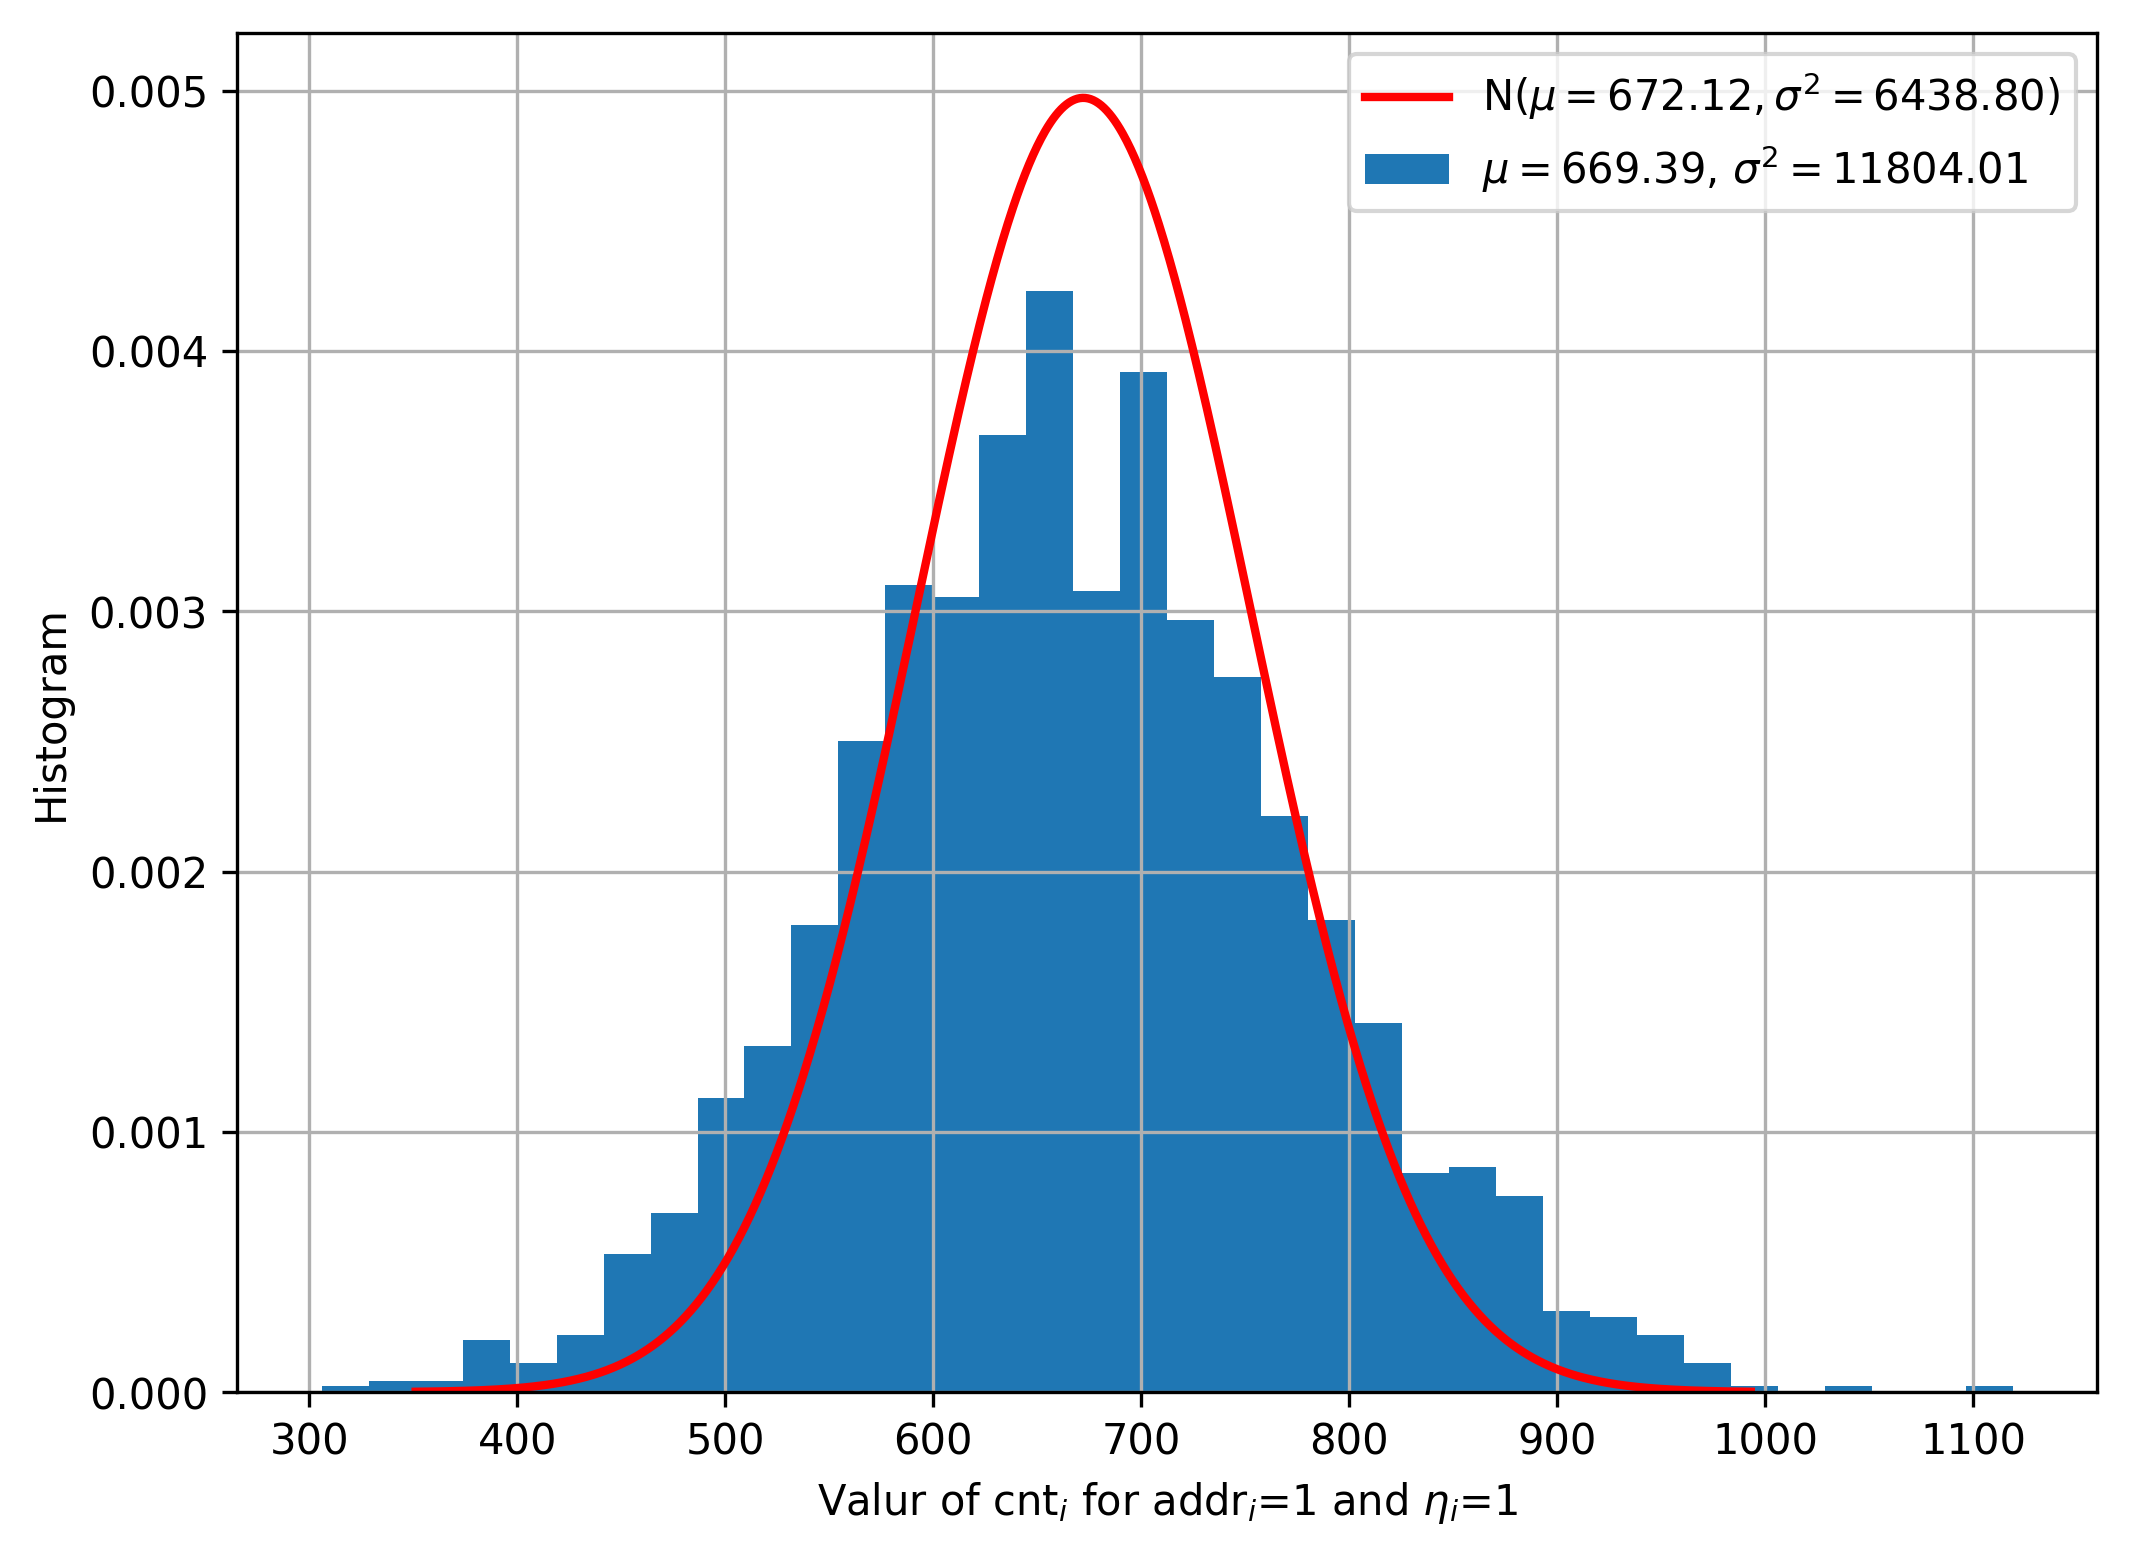
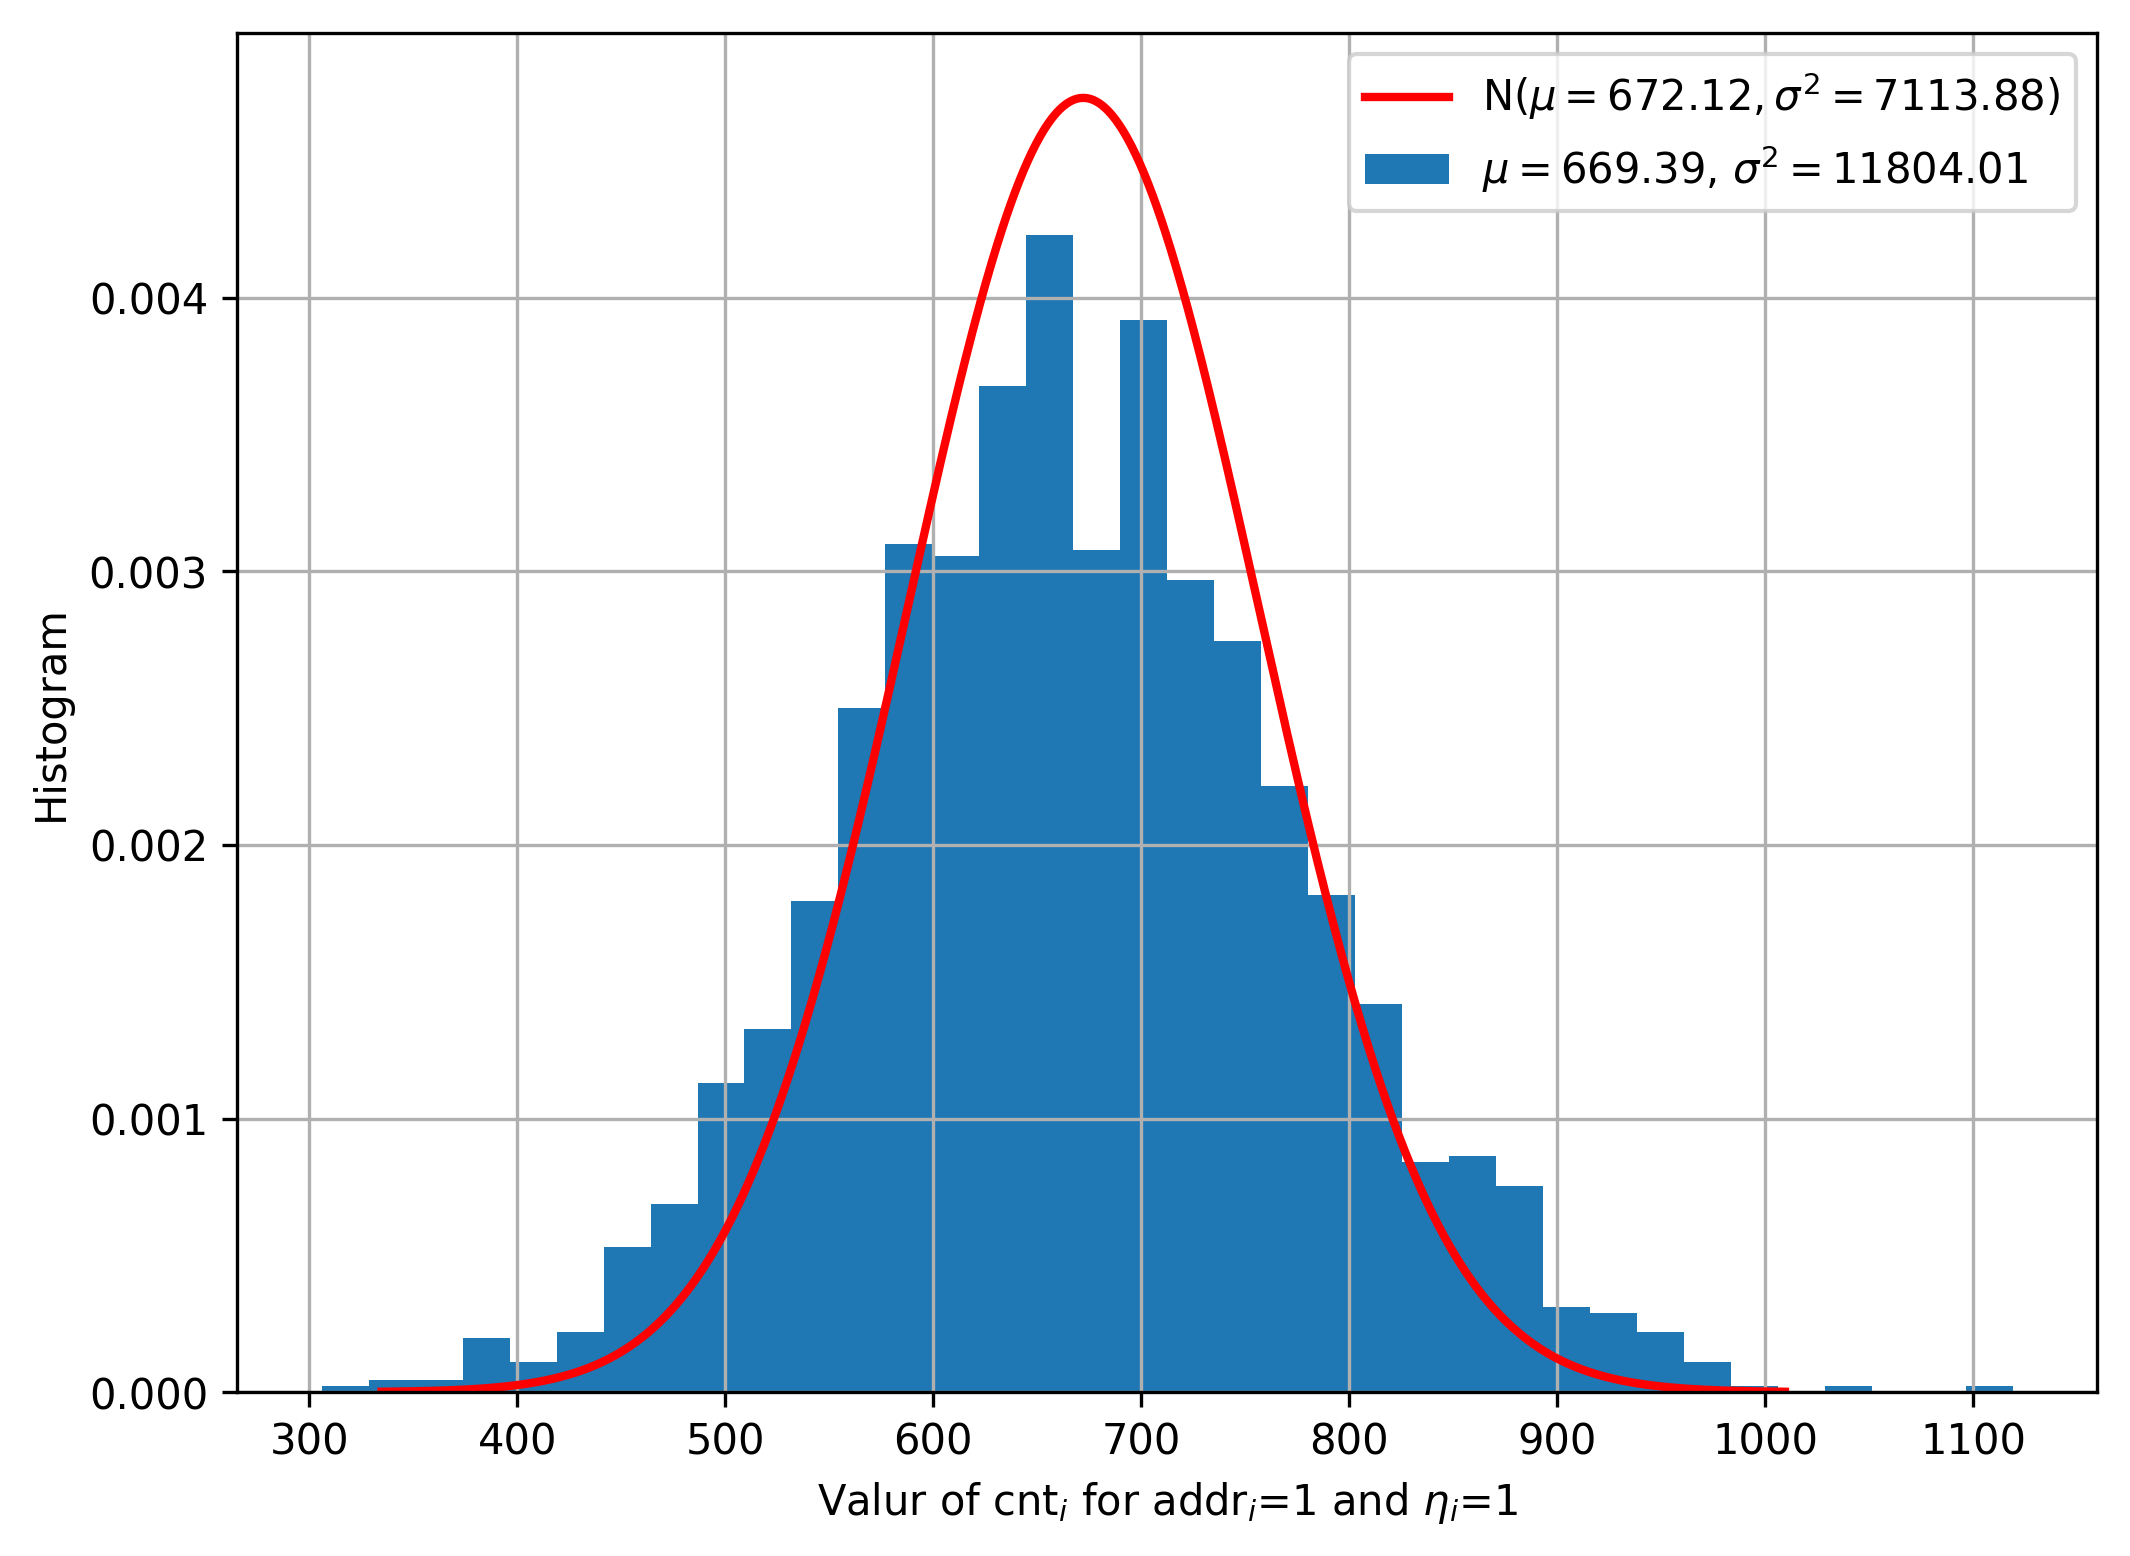
SDM Answer to Kanerva.

diff --git a/kanerva-answer.tex b/kanerva-answer.tex
@@ -186,7 +186,7 @@ For ``random written at x'', $p=0.5$ implies $\mu_\text{cnt} = 0$, which implies
 
 However, for ``x written at x'', $p=0.5529$ and the probabilities depend on $s$. For $s=10,000$, they are equal to 0.6354. For $s=20,000$, they are equal to 0.6867. For $s=30,000$, they are equal to 0.7232. The more random bitstrings are written into the memory, the more the hard locations point to themselves.
 
-See Figure \ref{fig:sdm-corr-prob} and notice that I still have to figure out why the mean is correct, but the standard deviation is not. As each of the $n$ counters of a hard location may be equal or not with the same probability, I assumed it would follow a Binomial distribution (and it worked for ``random at x'').
+See Figure \ref{fig:sdm-corr-prob} and notice that I still have to figure out why the mean is correct, but the standard deviation is not. Let $D$ be the number of counters aligned with $\text{addr}_i$. The standard deviation was calculated using the fact that $[D|\theta] \sim \text{Binomial}(1000, P(\text{cnt}_i > 0 | \text{addr}_i=1, \theta))$.
 
 \begin{figure}[h!]
   \centering
@@ -207,20 +207,20 @@ Now that we know the distribution of $\text{cnt}_i | \text{addr}_i$, we may go t
 \text{acc}_i = \sum_{k=1}^{h} \text{cnt}_k
 \end{align}
 
-Let $\eta$ be the reading address and $\eta_i$ the $i$th bit of it. Then, let's split the $h$ activated hard locations into two groups: (i) the ones with the same bit as $\eta_i$ with $ph$ hard locations, and (ii) the ones with the opposite bit as $\eta_i$ with $(1-p)h$ hard locations.
+Let $\eta$ be the reading address and $\eta_i$ the $i$th bit of it. Then, let's split the $h$ activated hard locations into two groups: (i) the ones with the same bit as $\eta_i$ with $Z$ hard locations, and (ii) the ones with the opposite bit as $\eta_i$ with $h-Z$ hard locations.
 
 \begin{align}
-\left[ \text{acc}_i|\eta_i \right] &= \sum_{k=1}^{ph} \left[ \text{cnt}_k | \text{addr}_k=\eta_i \right] + \sum_{k=1}^{(1-p)h} \left[ \text{cnt}_k | \text{addr}_k \ne \eta_i \right]
+\left[ \text{acc}_i|\eta_i \right] &= \sum_{k=1}^{Z} \left[ \text{cnt}_k | \text{addr}_k=\eta_i \right] + \sum_{k=1}^{h-Z} \left[ \text{cnt}_k | \text{addr}_k \ne \eta_i \right]
 \end{align}
 
 Each sum is a sum of normally distributed random variables, so
 
 \begin{align}
-\sum_{k=1}^{ph} \left[ \text{cnt}_k | \text{addr}_k=\eta_1 \right] &\sim \mathcal{N}(\mu_3 = \mu_2 ph, \sigma_3^2 = \sigma_2^2 ph + \mu_2^2 h p(1-p)) \label{eqn:sdm-eta1-addr1} \\
-\sum_{k=1}^{(1-p)h} \left[ \text{cnt}_k | \text{addr}_k \ne \eta_1 \right] &\sim \mathcal{N}(\mu_3 = -\mu_2 (1-p)h, \sigma_3^2 = \sigma_2^2 (1-p)h + \mu_2^2 h p (1-p)) \label{eqn:sdm-eta1-addr0}
+\sum_{k=1}^{Z} \left[ \text{cnt}_k | \text{addr}_k=\eta_1 \right] &\sim \mathcal{N}(\mu = \mu_\text{cnt} \mu_Z, \sigma^2 = \sigma_\text{cnt}^2 \mu_Z + \mu_\text{cnt}^2 \sigma^2_Z) \label{eqn:sdm-eta1-addr1} \\
+\sum_{k=1}^{h-Z} \left[ \text{cnt}_k | \text{addr}_k \ne \eta_1 \right] &\sim \mathcal{N}(\mu = -\mu_\text{cnt} (1-p) \mu_h, \sigma^2 = \sigma^2_\text{cnt} (1-p) \mu_h + \mu_\text{cnt}^2 \sigma^2_{h-Z}) \label{eqn:sdm-eta1-addr0}
 \end{align}
 
-In our case, $\sum_{k=1}^{ph} \left[ \text{cnt}_k | \text{addr}_k=1 \right] \sim \mathcal{N}(\mu=672.12, \sigma^2=6281.00)$, and $\sum_{k=1}^{ph} \left[ \text{cnt}_k | \text{addr}_k=1 \right] \sim \mathcal{N}(\mu=-543.49, \sigma^2=5078.99)$. See Figure \ref{fig:sdm-read-sums} --- we can notice that the average is correct but the variance is too small.
+In our case, $\sum_{k=1}^{Z} \left[ \text{cnt}_k | \text{addr}_k=1 \right] \sim \mathcal{N}(\mu=672.12, \sigma^2=7113.87)$, and $\sum_{k=1}^{Z} \left[ \text{cnt}_k | \text{addr}_k=1 \right] \sim \mathcal{N}(\mu=-543.49, \sigma^2=5752.54)$. See Figure \ref{fig:sdm-read-sums} --- we can notice that the average is correct but the variance is too small.
 
 \begin{figure}[h!]
   \centering
@@ -234,8 +234,8 @@ In our case, $\sum_{k=1}^{ph} \left[ \text{cnt}_k | \text{addr}_k=1 \right] \sim
 Hence,
 
 \begin{align}
-\left[ \text{acc}_i|\eta_i=1 \right] &\sim \mathcal{N}(\mu = (2p-1)^2 \theta h, \sigma^2 = \sigma_2^2 h + 2 \mu_2^2 hp(1-p)) \label{eqn:sdm-eta1} \\
-\left[ \text{acc}_i|\eta_i=0 \right] &\sim \mathcal{N}(\mu = -(2p-1)^2 \theta h, \sigma^2 = \sigma_2^2 h + 2 \mu_2^2 hp(1-p)) \label{eqn:sdm-eta0}
+\left[ \text{acc}_i|\eta_i=1 \right] &\sim \mathcal{N}(\mu = (2p-1)^2 \mu_\theta \mu_h, \sigma^2 = \sigma_\text{cnt}^2 \mu_h + 2 \mu_\text{cnt}^2 \sigma^2_h) \label{eqn:sdm-eta1} \\
+\left[ \text{acc}_i|\eta_i=0 \right] &\sim \mathcal{N}(\mu = -(2p-1)^2 \mu_\theta \mu_h, \sigma^2 = \sigma_\text{cnt}^2 \mu_h + 2 \mu_\text{cnt}^2 \sigma^2_h) \label{eqn:sdm-eta0}
 \end{align}
 
 In our case, $\left[ \text{acc}_i|\eta_i=1 \right] \sim \mathcal{N}(\mu = 128.62, \sigma^2 = 12181.95)$, and $\left[ \text{acc}_i|\eta_i=0 \right] \sim \mathcal{N}(\mu = -128.62, \sigma^2 = 12181.95)$. See Figure \ref{fig:sdm-read} --- we can notice that the variance issue from Figure \ref{fig:sdm-read-sums} has propagated to these images.
